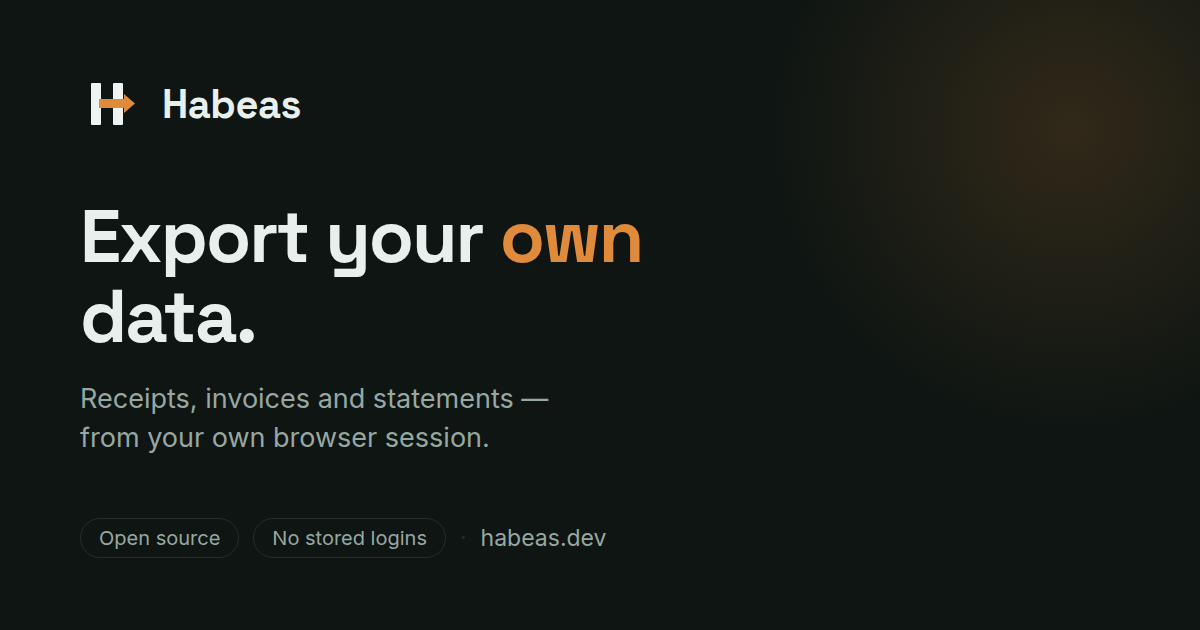
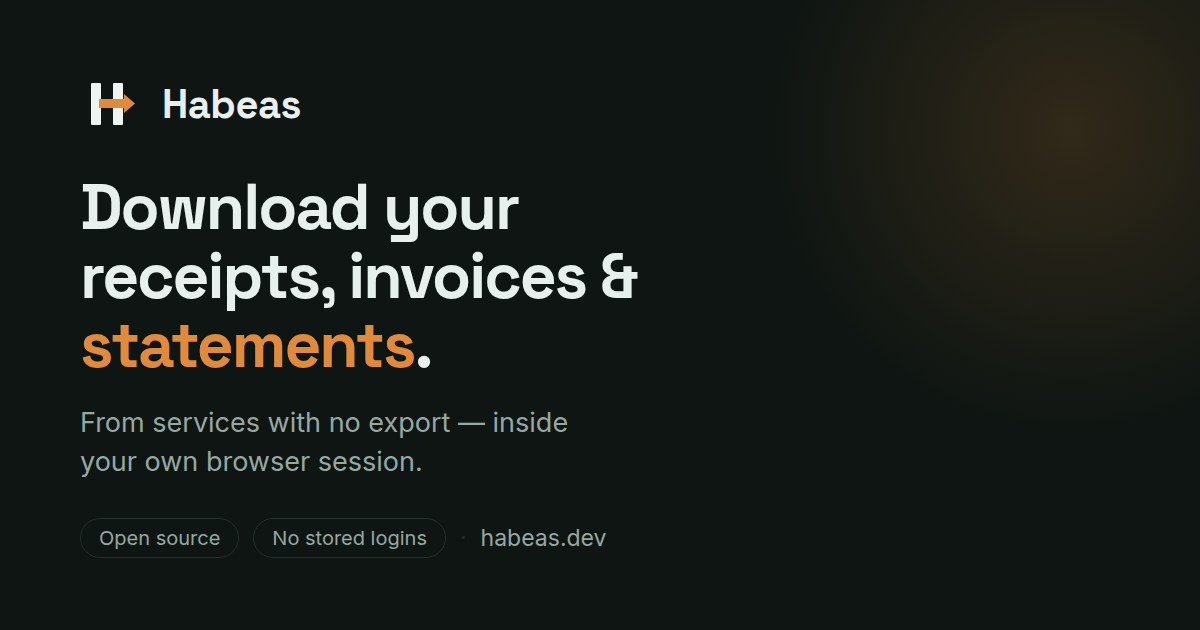
feat(site): lead the headline with what people search for, not the brand
The only query the site ever ranked for was "habeas login" — someone else's
product. Title and H1 described the tool in the abstract ("Export your own
data"), which matches nothing anybody types. The terms with real intent are the
documents themselves, and in Spanish, since every published source is Spanish.

- en: "Download your receipts, invoices and bank statements — Habeas" / H1
  "Download your receipts, invoices and statements."
- es: "Descarga tus tickets, facturas y extractos bancarios — Habeas" / H1
  "Descarga tus tickets, facturas y extractos."
- The differentiator (own session, no stored logins) moves to the sub-headline,
  where it still reads first but no longer costs the headline its search terms.
- Re-render the OG card so it does not contradict the new headline.

Tests pinned the old strings; updated, plus a new test asserting the intent —
the search terms must survive in title and H1, titles stay under the ~60 chars a
SERP shows, and neither may lead with the brand.

Changed region(s): [[0.0617, 0.2714, 0.555, 0.754]]

diff --git a/docs/i18n.js b/docs/i18n.js
@@ -3,8 +3,8 @@
 // <title>, meta description, and every [data-i18n] element.
 const I18N = {
   en: {
-    title: 'Habeas — export your own data from your own session',
-    desc: 'Open-source browser runtime that helps you preserve your own receipts, invoices, statements and reports from your authenticated browser session — no stored logins, no server-side scraping.',
+    title: 'Download your receipts, invoices and bank statements — Habeas',
+    desc: 'Free, open-source browser extension that downloads your own receipts, invoices and bank statements from services that offer no export — inside your own session, with no stored logins.',
     nav_install: 'Install',
     nav_how: 'How it works',
     nav_why: 'Why Habeas?',
@@ -25,8 +25,8 @@ const I18N = {
     trust_body: 'Chrome will show a notice that the extension is not trusted. It applies to any developer account recently registered on the Chrome Web Store, it takes a few months to fade, and it says nothing about the code, which you can read in full.',
     trust_irony: 'There is some irony in an extension whose thesis is that your data should not depend on an intermediary’s goodwill receiving a mark of distrust from an intermediary that neither explains its criteria nor allows any appeal.',
     tagline: 'Your documents should remain yours.',
-    hero_h1: 'Export your own data.',
-    hero_sub: 'Services hold your receipts, invoices and statements but rarely offer a usable export. Habeas runs locally inside your authenticated browser session, so nothing is sent to a server and your logins are never stored.',
+    hero_h1: 'Download your receipts, invoices and statements.',
+    hero_sub: 'Many services let you see your history but give you no way to export it. Habeas runs locally inside your own authenticated browser session, so nothing is sent to a server and your logins are never stored.',
     feature_label: 'Highlights',
     feature_1: 'Runs in your browser',
     feature_2: 'No stored logins',
@@ -132,8 +132,8 @@ const I18N = {
     footer_legal: 'Habeas is a tool for exercising your own data rights (GDPR Art. 20 / habeas data). It runs in your browser, under your own login, and never sends your data or credentials to us. It is not legal advice, and some services’ terms may restrict automated access — use responsibly.',
   },
   es: {
-    title: 'Habeas — exporta tus propios datos desde tu propia sesión',
-    desc: 'Runtime open-source en el navegador que te ayuda a preservar tus tickets, facturas, extractos e informes desde tu sesión autenticada — sin guardar tus logins ni hacer scraping desde un servidor.',
+    title: 'Descarga tus tickets, facturas y extractos bancarios — Habeas',
+    desc: 'Extensión de navegador libre y de código abierto que descarga tus tickets, facturas y extractos bancarios de servicios que no ofrecen exportación — dentro de tu propia sesión y sin guardar tus contraseñas.',
     nav_install: 'Instalar',
     nav_how: 'Cómo funciona',
     nav_why: 'Por qué Habeas',
@@ -154,8 +154,8 @@ const I18N = {
     trust_irony: 'Es algo irónico que una extensión cuya tesis es que sus datos no deben depender de la buena voluntad de un intermediario reciba un sello de desconfianza de un intermediario que ni explica sus criterios ni admite recurso.',
     nav_github: 'GitHub',
     tagline: 'Tus documentos deberían seguir siendo tuyos.',
-    hero_h1: 'Exporta tus propios datos.',
-    hero_sub: 'Los servicios guardan tus tickets, facturas y extractos pero raramente ofrecen una exportación útil. Habeas corre de forma local dentro de tu sesión autenticada del navegador, sin que nada se envíe a un servidor y sin guardar tus logins.',
+    hero_h1: 'Descarga tus tickets, facturas y extractos.',
+    hero_sub: 'Muchos servicios te dejan ver tu historial pero no te dan forma de exportarlo. Habeas funciona de forma local dentro de tu propia sesión autenticada del navegador: nada se envía a un servidor y tus contraseñas nunca se guardan.',
     feature_label: 'Puntos clave',
     feature_1: 'Corre en tu navegador',
     feature_2: 'No guarda logins',

diff --git a/docs/index.html b/docs/index.html
@@ -3,8 +3,8 @@
 <head>
   <meta charset="utf-8" />
   <meta name="viewport" content="width=device-width, initial-scale=1" />
-  <title>Habeas — export your own data from your own session</title>
-  <meta name="description" content="Open-source browser runtime that helps you preserve your own receipts, invoices, statements and reports from your authenticated browser session — no stored logins, no server-side scraping." />
+  <title>Download your receipts, invoices and bank statements — Habeas</title>
+  <meta name="description" content="Free, open-source browser extension that downloads your own receipts, invoices and bank statements from services that offer no export — inside your own session, with no stored logins." />
   <link rel="canonical" href="https://habeas.dev/" />
   <link rel="icon" type="image/svg+xml" href="logo.svg" />
   <link rel="stylesheet" href="style.css" />
@@ -12,12 +12,12 @@
   <script defer src="https://analytics.habeas.dev/script.js" data-website-id="84a75f7a-c014-4ce8-a3be-1f8dd1899a28" data-domains="habeas.dev"></script>
   <meta property="og:type" content="website" />
   <meta property="og:url" content="https://habeas.dev/" />
-  <meta property="og:title" content="Habeas — export your own data from your own session" />
-  <meta property="og:description" content="Open-source browser runtime that helps you preserve your own receipts, invoices, statements and reports from your authenticated browser session — no stored logins, no server-side scraping." />
+  <meta property="og:title" content="Download your receipts, invoices and bank statements — Habeas" />
+  <meta property="og:description" content="Free, open-source browser extension that downloads your own receipts, invoices and bank statements from services that offer no export — inside your own session, with no stored logins." />
   <meta property="og:image" content="https://habeas.dev/og-image.png" />
   <meta property="og:image:width" content="1200" />
   <meta property="og:image:height" content="630" />
-  <meta property="og:image:alt" content="Habeas — export your own data. Receipts, invoices and statements, from your own browser session." />
+  <meta property="og:image:alt" content="Habeas — download your receipts, invoices and bank statements, from inside your own browser session." />
   <meta property="og:site_name" content="Habeas" />
   <meta name="twitter:card" content="summary_large_image" />
   <!-- Structured data: the extension itself -->
@@ -81,8 +81,8 @@
     <img class="hero-bg-logo" src="logo-light.svg" alt="" aria-hidden="true" />
     <div class="wrap">
       <p class="tagline" data-i18n="tagline">Your documents should remain yours.</p>
-      <h1 data-i18n="hero_h1">Export your own data.</h1>
-      <p class="sub" data-i18n="hero_sub">Services hold your receipts, invoices and statements but rarely offer a usable export. Habeas runs locally inside your authenticated browser session, so nothing is sent to a server and your logins are never stored.</p>
+      <h1 data-i18n="hero_h1">Download your receipts, invoices and statements.</h1>
+      <p class="sub" data-i18n="hero_sub">Many services let you see your history but give you no way to export it. Habeas runs locally inside your own authenticated browser session, so nothing is sent to a server and your logins are never stored.</p>
       <div class="cta">
         <a class="btn primary" href="#install" data-i18n="cta_install" data-umami-event="hero-cta" data-umami-event-to="install">Install Habeas</a>
         <a class="btn ghost" href="#how" data-i18n="cta_how" data-umami-event="hero-cta" data-umami-event-to="how">See how it works</a>

diff --git a/docs/tools/og-image.html b/docs/tools/og-image.html
@@ -34,7 +34,7 @@
   .name { font-family: 'Space Grotesk', sans-serif; font-weight: 700; font-size: 40px; letter-spacing: -.5px; }
   h1 {
     font-family: 'Space Grotesk', sans-serif; font-weight: 700;
-    font-size: 74px; line-height: 1.08; letter-spacing: -2px; max-width: 15ch;
+    font-size: 64px; line-height: 1.08; letter-spacing: -2px; max-width: 15ch;
   }
   h1 em { font-style: normal; color: #e08a3c; }
   .sub { font-size: 27px; line-height: 1.45; color: #97a8a2; max-width: 30ch; margin-top: 22px; }
@@ -55,8 +55,8 @@
   </div>
 
   <div>
-    <h1>Export your <em>own</em> data.</h1>
-    <p class="sub">Receipts, invoices and statements — from your own browser session.</p>
+    <h1>Download your receipts, invoices &amp; <em>statements</em>.</h1>
+    <p class="sub">From services with no export — inside your own browser session.</p>
   </div>
 
   <div class="foot">

diff --git a/docs/es/por-que-habeas.html b/docs/es/por-que-habeas.html
@@ -30,7 +30,7 @@
   <meta property="og:image" content="https://habeas.dev/og-image.png" />
   <meta property="og:image:width" content="1200" />
   <meta property="og:image:height" content="630" />
-  <meta property="og:image:alt" content="Habeas — export your own data. Receipts, invoices and statements, from your own browser session." />
+  <meta property="og:image:alt" content="Habeas — download your receipts, invoices and bank statements, from inside your own browser session." />
   <meta property="og:site_name" content="Habeas" />
   <meta name="twitter:card" content="summary_large_image" />
   <link rel="alternate" hreflang="en" href="https://habeas.dev/why-habeas.html" />

diff --git a/docs/why-habeas.html b/docs/why-habeas.html
@@ -30,7 +30,7 @@
   <meta property="og:image" content="https://habeas.dev/og-image.png" />
   <meta property="og:image:width" content="1200" />
   <meta property="og:image:height" content="630" />
-  <meta property="og:image:alt" content="Habeas — export your own data. Receipts, invoices and statements, from your own browser session." />
+  <meta property="og:image:alt" content="Habeas — download your receipts, invoices and bank statements, from inside your own browser session." />
   <meta property="og:site_name" content="Habeas" />
   <meta name="twitter:card" content="summary_large_image" />
   <link rel="alternate" hreflang="en" href="https://habeas.dev/why-habeas.html" />

diff --git a/docs/architecture.html b/docs/architecture.html
@@ -31,7 +31,7 @@
   <meta property="og:image" content="https://habeas.dev/og-image.png" />
   <meta property="og:image:width" content="1200" />
   <meta property="og:image:height" content="630" />
-  <meta property="og:image:alt" content="Habeas — export your own data. Receipts, invoices and statements, from your own browser session." />
+  <meta property="og:image:alt" content="Habeas — download your receipts, invoices and bank statements, from inside your own browser session." />
   <meta property="og:site_name" content="Habeas" />
   <meta name="twitter:card" content="summary_large_image" />
 </head>

diff --git a/docs/privacy.html b/docs/privacy.html
@@ -29,7 +29,7 @@
   <meta property="og:image" content="https://habeas.dev/og-image.png" />
   <meta property="og:image:width" content="1200" />
   <meta property="og:image:height" content="630" />
-  <meta property="og:image:alt" content="Habeas — export your own data. Receipts, invoices and statements, from your own browser session." />
+  <meta property="og:image:alt" content="Habeas — download your receipts, invoices and bank statements, from inside your own browser session." />
   <meta property="og:site_name" content="Habeas" />
   <meta name="twitter:card" content="summary_large_image" />
 </head>

diff --git a/docs/sources.html b/docs/sources.html
@@ -37,7 +37,7 @@
   <meta property="og:image" content="https://habeas.dev/og-image.png" />
   <meta property="og:image:width" content="1200" />
   <meta property="og:image:height" content="630" />
-  <meta property="og:image:alt" content="Habeas — export your own data. Receipts, invoices and statements, from your own browser session." />
+  <meta property="og:image:alt" content="Habeas — download your receipts, invoices and bank statements, from inside your own browser session." />
   <meta property="og:site_name" content="Habeas" />
   <meta name="twitter:card" content="summary_large_image" />
 </head>

diff --git a/docs/terms.html b/docs/terms.html
@@ -29,7 +29,7 @@
   <meta property="og:image" content="https://habeas.dev/og-image.png" />
   <meta property="og:image:width" content="1200" />
   <meta property="og:image:height" content="630" />
-  <meta property="og:image:alt" content="Habeas — export your own data. Receipts, invoices and statements, from your own browser session." />
+  <meta property="og:image:alt" content="Habeas — download your receipts, invoices and bank statements, from inside your own browser session." />
   <meta property="og:site_name" content="Habeas" />
   <meta name="twitter:card" content="summary_large_image" />
 </head>
